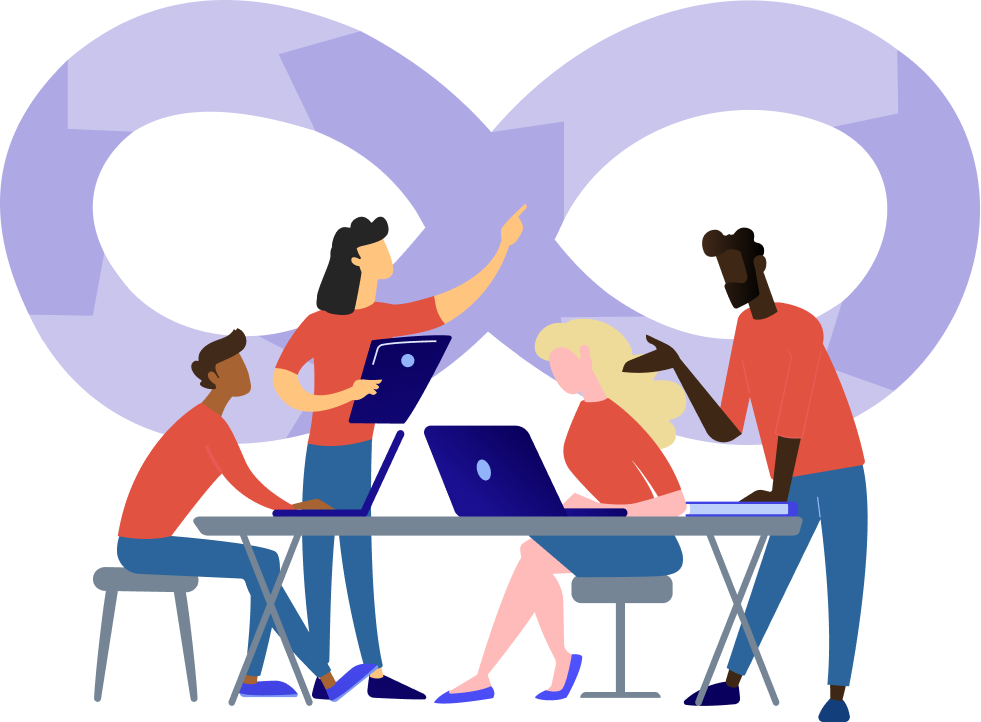
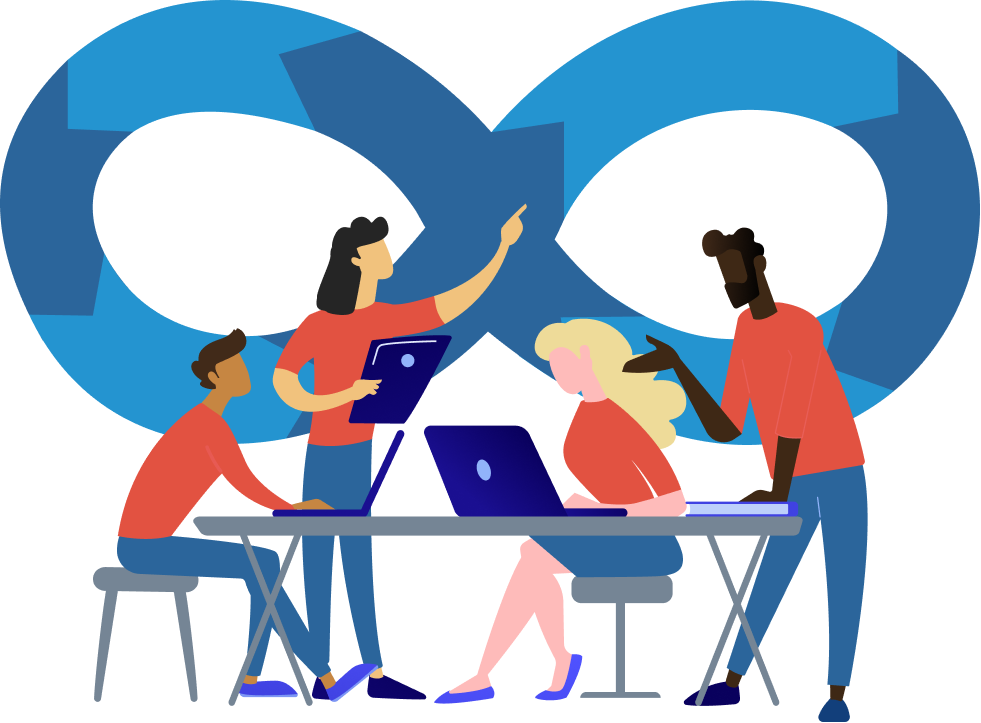
updated colors on images and blob and hidden waterfull section

diff --git a/src/components/home/whoWeAre.js b/src/components/home/whoWeAre.js
@@ -6,11 +6,11 @@ import whoBackground from "../../images/whoBackground.jpg";
 const WhoWeAre = () => {
   return (
     <section
-      className="md:min-h-screen flex items-center justify-center w-full my-16 md:my-0 py-10 md:py-0 whoWeAreBgRight lg:whoWeAreBgCenter"
-      style={{
-        background: `url(${whoBackground}) no-repeat`,
-        backgroundSize: "cover",
-      }}
+      // className="md:min-h-screen flex items-center justify-center w-full my-16 md:my-0 py-10 md:py-0 whoWeAreBgRight lg:whoWeAreBgCenter"
+      // style={{
+      //   background: `url(${whoBackground}) no-repeat`,
+      //   backgroundSize: "cover",
+      // }}
     >
     </section>
   );

diff --git a/src/styles/blobz.min.css b/src/styles/blobz.min.css
@@ -1,6 +1,6 @@
 .tk-blob {
   animation: blob-turn var(--time, 45s) linear infinite;
-  fill: var(--fill, rgba(64, 114, 163, 0.5));
+  fill: var(--fill, rgba(218, 227, 254, 1));
   position: relative;
   transform-origin: center;
 }

diff --git a/src/components/home/hero.js b/src/components/home/hero.js
@@ -8,7 +8,7 @@ import BackgroundSection from "../home/homeBg";
 const sentenceAnim = {
   hidden: { opacity: 1 },
   visible: {
-    opacity: 1,
+    opacity: 0,
     transition: {
       delay: 0.1,
       staggerChildren: 0.08,
